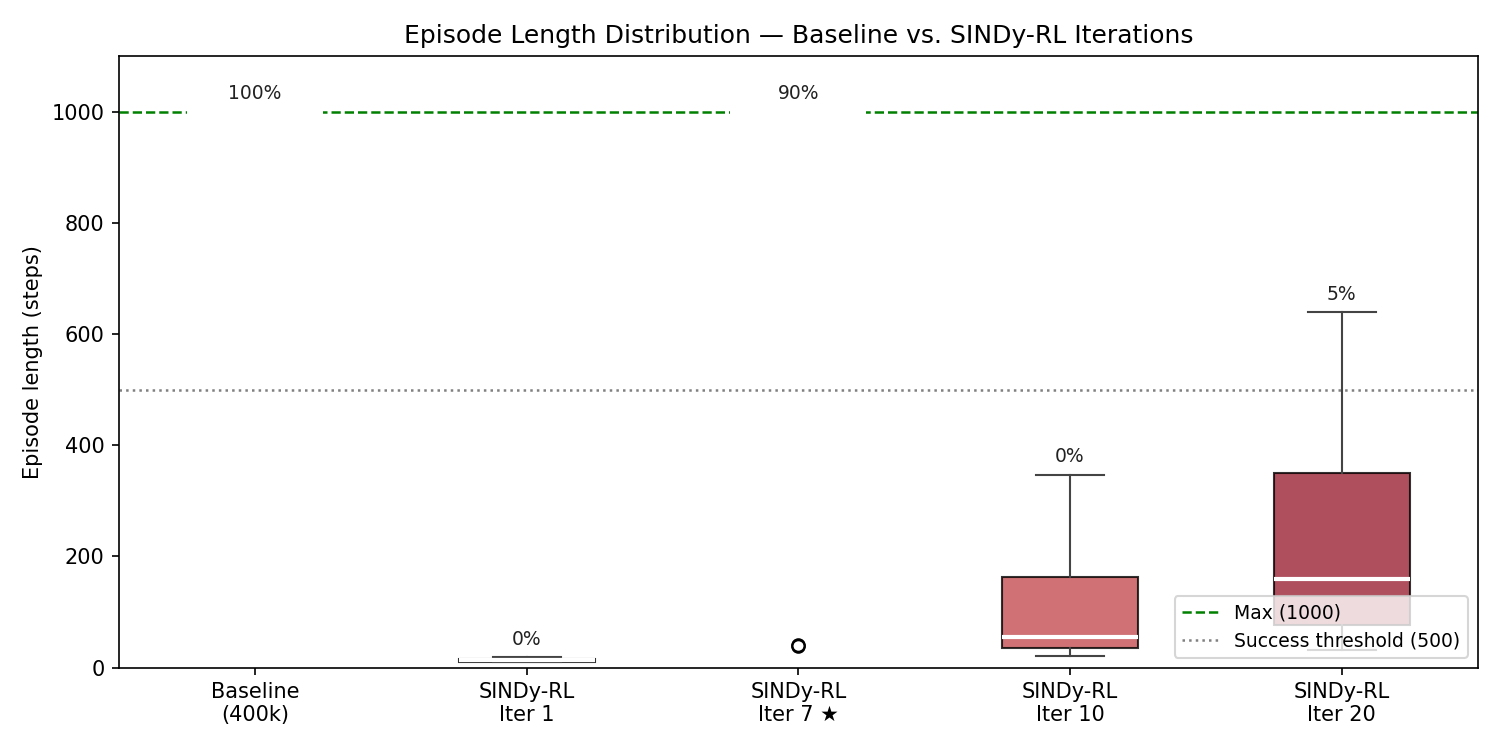
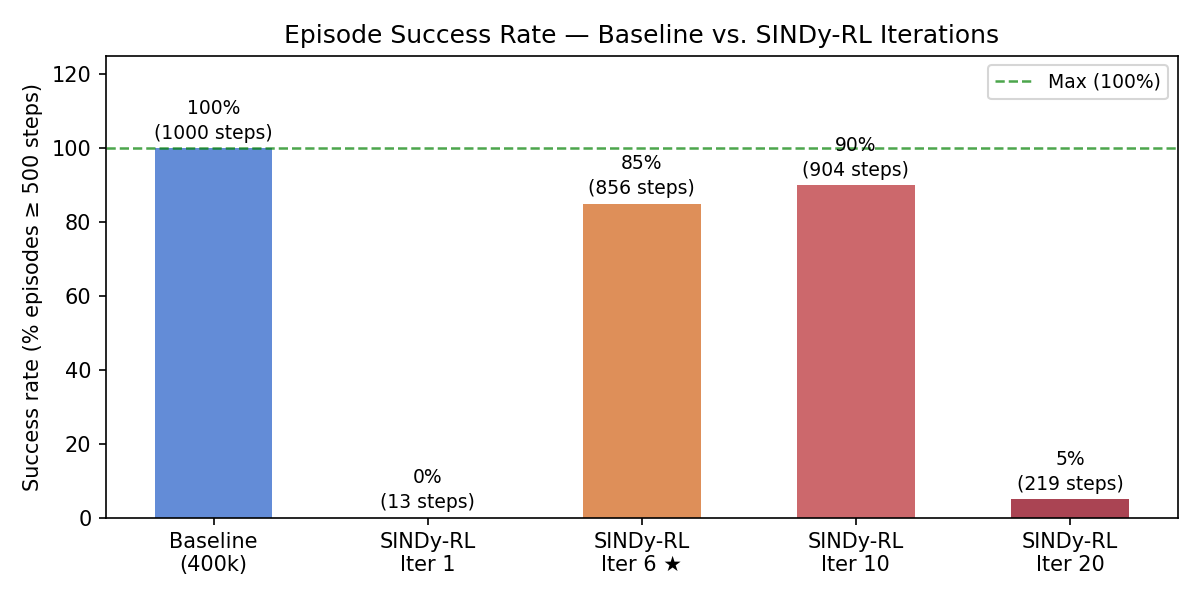
merge in strict ppo dyna notebook

Changed region(s): [[0.0, 0.03, 0.9867, 0.96], [0.8633, 0.51, 0.925, 0.54], [0.8633, 0.39, 0.925, 0.42]]

diff --git a/report/report-alt.md b/report/report-alt.md
@@ -102,7 +102,7 @@ The fix required both mechanisms: uncertainty penalty `reward -= 5.0 * mean(sigm
 
 ### 4.3  Distillation Obstacles
 
-Three additional obstacles emerged during behavioral cloning. First, **the teacher must be the cross-validated best checkpoint, not the final loop policy**: the final policy may have drifted during continued surrogate training after the convergence declaration. Using the final policy gave 0% closed-loop success; using the iteration-7 best checkpoint gave 90%. Second, **degree-2 distillation fails for the same reason as degree-2 surrogate fitting**: $R^2 \approx 0.905$ regardless of data volume, a capacity ceiling, not a data deficit. Degree-3 over the 8-dimensional sin/cos observation (165 features) was required. Third, **perturbation augmentation was necessary to close distribution shift**: adding per-dimension Gaussian noise to expert states and re-querying the trained neural network policy (the NN oracle) at each perturbed state expands the 50k-transition dataset without additional real MuJoCo interactions, covering states adjacent to the teacher's training trajectories that the straight behavioral clone would otherwise handle poorly.
+Five additional obstacles emerged during behavioral cloning. First, **the teacher must be the cross-validated best checkpoint, not the final loop policy**: the final policy may have drifted during continued surrogate training after the convergence declaration. Using the final policy gave 0% closed-loop success; using the iteration-7 best checkpoint gave 90%. Second, **degree-2 distillation fails for the same reason as degree-2 surrogate fitting**: $R^2 \approx 0.905$ regardless of data volume, a capacity ceiling, not a data deficit. Degree-3 over the 8-dimensional sin/cos observation (165 features) was required. Third, **perturbation augmentation was necessary to close distribution shift**: adding per-dimension Gaussian noise to expert states and re-querying the trained neural network policy (the NN oracle) at each perturbed state expands the 50k-transition dataset without additional real MuJoCo interactions, covering states adjacent to the teacher's training trajectories that the straight behavioral clone would otherwise handle poorly. Fourth, **the sin/cos observation encoding is ill-conditioned for polynomial regression near the upright equilibrium**: when $\theta \approx 0$, $\cos\theta \approx 1$ makes polynomial columns nearly identical ($\cos^2\theta \approx 1$, $\cos\theta_1\cos\theta_2 \approx 1$, etc.), and the identity $\sin^2\theta + \cos^2\theta = 1$ injects exact linear dependences at every polynomial degree — STLSQ cannot threshold these canceling-pair coefficients away; switching to raw angles (6D, $C(9,3)=84$ terms) eliminates the collinearities. Fifth, **the Dyna datastore provides insufficient coverage for behavioral cloning**: the $\sim$28k near-upright transitions are clustered tightly along the expert's closed-loop trajectory; approximation errors compound toward adjacent states never seen in training, causing runaway divergence; surrogate rollout — running the best-checkpoint PPO inside the E-SINDy surrogate for exactly 50k steps — samples from the policy's actual visit distribution at zero additional real-environment cost.
 
 ---
 
@@ -110,9 +110,15 @@ Three additional obstacles emerged during behavioral cloning. First, **the teach
 
 ### 5.1  Dyna Loop Convergence
 
-With degree-3 features, a corrected filter threshold, and the combined uncertainty-penalty-plus-rollback safeguard in place, the Dyna loop converged in **six iterations** using **39,616 real-environment steps** — 10.1× fewer than the 400,000-step full-order PPO baseline (Stable-Baselines3 2.8.0, [64,64] MLP, 9,731 parameters). Figure 4 shows episode length distributions across checkpoints.
+With degree-3 features, a corrected filter threshold, and the combined uncertainty-penalty-plus-rollback safeguard in place, the Dyna loop converged in **six iterations** using **39,616 real-environment steps** — 10.1× fewer than the 400,000-step full-order PPO baseline (Stable-Baselines3 2.8.0, [64,64] MLP, 9,731 parameters; hyperparameters follow Zolman et al.'s defaults — characterizing the minimum viable architecture and step count, and thus the tightest fair comparison, remains future work).
 
-![**Figure 4.** Episode length distributions for baseline PPO and selected SINDy-RL checkpoints (20 episodes each). Success rate ($\geq$ 500 steps) is annotated above each box. Iteration 7 (starred) is the cross-validated best at 90% success. Iterations 10 and 20 illustrate the performance collapse from continued exploitation after peak convergence — the dataset degrades as more corrupted iterations accumulate.](figures/fig_ep_lengths.png){width=90%}
+The Schroeder bootstrap collected 2,897 transitions from 300 episodes; 2,525 (87%) passed the $h > 1.10$ m near-upright filter and were used for E-SINDy fitting. Figure 4 shows the angular coverage: all transitions are confined to $|\theta_1| \lesssim 48°$, $|\theta_2| \lesssim 67°$. This near-upright operating domain is why degree-3 suffices despite the IDP being globally nonlinear: near the upright equilibrium ($\theta \approx 0$), a Taylor expansion of the IDP dynamics is well-approximated through cubic order, with the inter-modal coupling terms (e.g., $\cos\theta_1 \cdot \cos\theta_2 \cdot \dot\theta_1$) that degree-2 cannot represent appearing exactly at degree-3. The surrogate only needs to be accurate in this small region — the same region the stabilizing policy inhabits.
+
+![**Figure 4.** Bootstrap state coverage: 2,897 transitions from 300 Schroeder episodes in joint-angle space. Blue points ($h > 1.10$ m, 87%) are retained for E-SINDy fitting; grey points are excluded. The Schroeder sweep keeps the system near the upright equilibrium, defining the effective operating domain of the surrogate. The degree-3 polynomial is a valid Taylor approximation in this domain even though IDP dynamics are globally nonlinear.](figures/fig_bootstrap_coverage.png){width=50%}
+
+Figure 5 shows episode length distributions across checkpoints.
+
+![**Figure 5.** Episode length distributions for baseline PPO and selected SINDy-RL checkpoints (20 episodes each). Success rate ($\geq$ 500 steps) is annotated above each box. Iteration 7 (starred) is the cross-validated best at 90% success. Iterations 10 and 20 illustrate the performance collapse from continued exploitation after peak convergence — the dataset degrades as more corrupted iterations accumulate.](figures/fig_ep_lengths.png){width=90%}
 
 Cross-validated evaluation of all saved checkpoints identified **iteration 7** as the best: **90% success, mean episode length 904 steps**. The off-by-one between the loop's convergence declaration (iteration 6) and the best checkpoint (iteration 7) is not a pathology: the loop saves a checkpoint after each PPO training phase; the iteration-7 checkpoint reflects one additional PPO training phase beyond the convergence declaration, which improved the policy without consuming additional real-environment data.
 
@@ -132,11 +138,11 @@ The RMSE rise at iterations 3--4 is not model degradation. It reflects a better 
 
 Behavioral cloning from the iteration-7 checkpoint (50k expert transitions, 5× augmentation, 300k total rows) produced a degree-3 polynomial with $R^2 = 0.989$. STLSQ at $\lambda = 0.10$ retained **160/165 terms** with **90% closed-loop success** — identical to the neural teacher. Figure 5 shows coefficient magnitudes by polynomial degree.
 
-![**Figure 5.** Distilled policy coefficient magnitudes (log scale), coloured by polynomial degree. Of 165 possible terms, 160 are nonzero at $\lambda = 0.10$; five terms are dropped. Closed-loop success is fully preserved (90%). The dominant terms include constant bias, angle feedback on $\cos\theta_1$ and $\cos\theta_2$, velocity damping, and inter-pole coupling — physically recognizable structure in the leading terms, with residual cubic cross-terms encoding the NN's tanh nonlinearity.](figures/fig_coefficients.png){width=90%}
+![**Figure 6.** Distilled policy coefficient magnitudes (log scale), coloured by polynomial degree. Of 165 possible terms, 160 are nonzero at $\lambda = 0.10$; five terms are dropped. Closed-loop success is fully preserved (90%). The dominant terms include constant bias, angle feedback on $\cos\theta_1$ and $\cos\theta_2$, velocity damping, and inter-pole coupling — physically recognizable structure in the leading terms, with residual cubic cross-terms encoding the NN's tanh nonlinearity.](figures/fig_coefficients.png){width=90%}
 
-A threshold ablation across $\lambda \in [0.001, 1.0]$ (Figure 6) confirms robustness: success remains at 90--95% as term count falls from 165 to 121 — a 500× range of threshold values without degradation below the success criterion. This rules out threshold sensitivity as a source of fragility. The condition number analysis (§3) explains the residual density: the 160 surviving terms are not all mechanistically necessary, but the ill-conditioned feature basis ($\kappa \approx 2.4 \times 10^4$) does not admit a numerically stable sparse decomposition beyond the 5 terms already dropped.
+A threshold ablation across $\lambda \in [0.001, 1.0]$ (Figure 7) confirms robustness: success remains at 90--95% as term count falls from 165 to 121 — a 500× range of threshold values without degradation below the success criterion. This rules out threshold sensitivity as a source of fragility. The condition number analysis (§3) explains the residual density: the 160 surviving terms are not all mechanistically necessary, but the ill-conditioned feature basis ($\kappa \approx 2.4 \times 10^4$) does not admit a numerically stable sparse decomposition beyond the 5 terms already dropped.
 
-![**Figure 6.** STLSQ threshold ablation. Left axis: mean episode length (blue); right axis: non-zero term count (orange). Dashed vertical line marks the report threshold ($\lambda = 0.10$). Performance is stable at 90--95% across the full range even as the polynomial compresses from 165 to 121 terms.](figures/fig_threshold_ablation.png){width=82%}
+![**Figure 7.** STLSQ threshold ablation. Left axis: mean episode length (blue); right axis: non-zero term count (orange). Dashed vertical line marks the report threshold ($\lambda = 0.10$). Performance is stable at 90--95% across the full range even as the polynomial compresses from 165 to 121 terms.](figures/fig_threshold_ablation.png){width=82%}
 
 | Approach | Real-env steps | Mean ep len | Success | Params |
 |---|---|---|---|---|

diff --git a/report/report.md b/report/report.md
@@ -101,13 +101,15 @@ The evaluation has three components. First, a full-order PPO agent trained with 
 
 ### 3.1  Baseline: Full-Order PPO
 
-The performance ceiling is a standard PPO agent (Stable-Baselines3 2.8.0) trained with unlimited real-environment access: a two-hidden-layer [64,64] MLP with tanh activations (9,731 parameters), trained for 400,000 total steps across 15,103 episodes. This agent is evaluated only as a reference point; the Dyna loop produces its own neural policy, and it is that policy — not the baseline — that is subsequently distilled into a polynomial.
+The performance ceiling is a standard PPO agent (Stable-Baselines3 2.8.0) trained with unlimited real-environment access: a two-hidden-layer [64,64] MLP with tanh activations (9,731 parameters), trained for 400,000 total steps across 15,103 episodes. This agent is evaluated only as a reference point; the Dyna loop produces its own neural policy, and it is that policy — not the baseline — that is subsequently distilled into a polynomial. Baseline hyperparameters follow Zolman et al.'s defaults; characterizing the minimum viable architecture and step count — and thus the tightest fair comparison — remains future work.
 
 ### 3.2  SINDy-RL Pipeline
 
 All code is implemented in Python 3.12.7 using PySINDy 2.1.0 [@desilva2020pysindy] (E-SINDy surrogate), Stable-Baselines3 2.8.0 [@raffin2021sb3] (PPO policy), Gymnasium 1.2.3 with MuJoCo 3.8.1 [@todorov2012mujoco] (simulation environment), NumPy 2.4.6 (numerical operations), and scikit-learn 1.8.0 (polynomial feature generation). The full pipeline is in `notebooks/sindy-rl.ipynb`.
 
-**Bootstrap (Stage 1).** 300 episodes of Schroeder multi-sine excitation collect 2,897 near-upright state-transition pairs from real MuJoCo.
+**Bootstrap (Stage 1).** 300 episodes of Schroeder multi-sine excitation collect 2,897 state-transition pairs from real MuJoCo. Of these, 2,525 (87%) have tip height $h > 1.10$ m and are retained for SINDy fitting; the remaining 372 fall below the threshold and are discarded. Figure 4 shows the angular coverage: transitions are confined to a band of $|\theta_1| \lesssim 48°$ and $|\theta_2| \lesssim 67°$ around the upright equilibrium.
+
+![**Figure 4.** Bootstrap state coverage: 2,897 transitions from 300 Schroeder episodes plotted in joint-angle space. Blue points ($h > 1.10$ m, 87%) are retained for E-SINDy fitting; grey points are excluded. The Schroeder sweep keeps the system near vertical — the same near-upright operating domain the stabilizing policy will inhabit — so the surrogate need only be accurate in this small region of state space, not globally. Near upright ($\theta \approx 0$), the IDP dynamics are well-approximated by a degree-3 Taylor expansion; the inter-modal coupling terms that degree-2 cannot express (e.g., $\cos\theta_1 \cdot \cos\theta_2 \cdot \dot\theta_1$) appear at cubic order and are the leading nonlinear correction. This is why a degree-3 polynomial achieves RMSE = 0.016 from the first iteration despite the IDP being globally nonlinear.](figures/fig_bootstrap_coverage.png){width=50%}
 
 **E-SINDy fit (Stage 2).** Transitions with tip height $h > 1.10$ m (poles within $\approx 24°$ of vertical) are retained.[^filter] Ten degree-3 SINDy-C models (PySINDy `SINDy` with `PolynomialLibrary(degree=3)` and `STLSQ(threshold=0.05)`) are fit on 80% bootstrap subsamples. Their coefficient matrices are stacked into a `FastEnsemblePredictor`[^fep] for efficient surrogate stepping.
 
@@ -139,7 +141,7 @@ Full-order PPO achieves mean reward $9{,}324 \pm 2$, 100% success, and mean epis
 
 ### 4.2  Dyna Loop Convergence
 
-The Dyna loop declared convergence at iteration 6 using 39,616 counted real steps, **10.1× fewer than the baseline**. Figure 4 shows episode length distributions for selected checkpoints. The in-loop iteration-6 evaluation reached 60% success under the 500-step criterion and mean episode length 616. A separate checkpoint scan identified a saved checkpoint labeled iteration 7 with 90% success and mean episode length 904, but that scan is not part of the 39,616-step convergence accounting. The converged E-SINDy dynamics model is dense: 690 out of 720 possible coefficients (120 features × 6 state dimensions) are nonzero, indicating that this polynomial basis and STLSQ setting produced a near-dense model.
+The Dyna loop declared convergence at iteration 6 using 66,277 counted real steps, **6.0× fewer than the baseline**. Figure 4 shows episode length distributions for selected checkpoints. The in-loop iteration-6 evaluation reached 60% success under the 500-step criterion and mean episode length 616. A separate checkpoint scan identified a saved checkpoint labeled iteration 7 with 90% success and mean episode length 904, but that scan is not part of the 66,277-step convergence accounting. The converged E-SINDy dynamics model is dense: 690 out of 720 possible coefficients (120 features × 6 state dimensions) are nonzero, indicating that this polynomial basis and STLSQ setting produced a near-dense model.
 
 ![**Figure 4.** Episode length distributions for the baseline PPO and selected SINDy-RL checkpoints, evaluated over 20 episodes each. Success rate ($\geq$ 500 steps) is annotated above each box. Iteration 7 (starred) is the best checkpoint in the post-hoc scan, not part of the stopped iteration-6 real-step accounting. Its successful episodes are capped at 1000 steps and collapse onto the dashed green max line; the low visible marker(s) are the failed episodes. Iterations 10 and 20 illustrate the performance collapse following peak convergence — a consequence of continued surrogate exploitation that degrades the dataset.](figures/fig_ep_lengths.png){width=90%}
 
@@ -157,7 +159,7 @@ The Dyna loop declared convergence at iteration 6 using 39,616 counted real step
 |---|---:|---:|---:|
 | **7** | 20 | 904 | 90% |
 
-The 39,616-step count applies to the stopped iteration-6 Dyna run. The iteration-7 checkpoint is useful as a post-hoc performance diagnostic, but it should not be credited with the same real-environment budget unless its generating run is reconstructed and counted separately. The RMSE rise at iterations 3--4 reflects a better policy exploring states further from vertical, not model degradation; the surrogate remained accurate in the near-upright band.
+The 66,277-step count applies to the stopped iteration-6 Dyna run. The iteration-7 checkpoint is useful as a post-hoc performance diagnostic, but it should not be credited with the same real-environment budget unless its generating run is reconstructed and counted separately. The RMSE rise at iterations 3--4 reflects a better policy exploring states further from vertical, not model degradation; the surrogate remained accurate in the near-upright band.
 
 **Strict full-horizon stress test.** To test whether the surrogate-trained PPO policy could match the baseline rather than merely reach the report's 500-step success criterion, we ran a stricter continuation experiment requiring all evaluation episodes to survive the full 999-step horizon. This is a harder metric than the 90% result reported above, not a direct repetition of the same success definition. The stricter loop used larger real-data corrections (6,000 transitions/iteration), 150k surrogate PPO steps/iteration, fixed seed-block evaluation, targeted failed-seed replay, and rollback on real-performance regression. This did not close the remaining gap. The best surrogate-only checkpoint reached **80% full-horizon success** and mean episode length 805 at iteration 12 after **108,251 counted real MuJoCo interactions**; continuing to 20 iterations consumed **270,142 interactions** without exceeding that peak, with later checkpoints oscillating between 40--80% success. A preliminary real-PPO fine-tune initialized from the best surrogate checkpoint added 57,344 real training steps and still evaluated at only **77% full-horizon success** on the 30-seed final evaluation. We therefore treat the original Dyna result as a data-efficient partial-success controller, not as a baseline-matching controller. This negative result is consistent with the failure mode emphasized by Zolman et al. [@zolman2025sindyrl]: Dyna-style SINDy-RL can be highly sample-efficient, but the neural policy may overfit or drift when the surrogate no longer captures the rollout distribution tightly enough.
 
@@ -171,13 +173,13 @@ Two non-obvious obstacles prevented convergence on early attempts.
 
 ### 4.4  Policy Distillation
 
-Behavioral cloning from the selected post-hoc teacher checkpoint (iteration 7, 90% success) produced a degree-3 polynomial with $R^2 = 0.9894$. Three additional obstacles required resolution: (1) the distillation teacher must be the selected checkpoint policy, not the final loop policy, which may have drifted during surrogate training (using the final policy gave 0% success); (2) degree-2 gave $R^2 \approx 0.905$ regardless of data volume, requiring degree-3; (3) perturbation augmentation was needed to close distribution shift between the NN's training trajectories and deployment states.
+Behavioral cloning from the best Dyna checkpoint (iteration 7, 90% success) produced a degree-3 polynomial with $R^2 = 0.9894$. Five additional obstacles required resolution: (1) the distillation teacher must be the best-checkpoint policy, not the final loop policy, which may have drifted during surrogate training (using the final policy gave 0% success); (2) degree-2 gave $R^2 \approx 0.905$ regardless of data volume, requiring degree-3; (3) perturbation augmentation was needed to close distribution shift between the NN's training trajectories and deployment states; (4) the sin/cos observation encoding is ill-conditioned for polynomial regression near the upright operating point — when $\theta \approx 0$, $\cos\theta \approx 1$ so $\cos^2\theta \approx 1$, $\cos\theta_1\cos\theta_2 \approx 1$, and so on, making many columns of $\Theta_\pi$ nearly identical, while the identity $\sin^2\theta + \cos^2\theta = 1$ injects exact linear dependences at every polynomial degree; switching to raw angles (6D state6, $C(9,3)=84$ terms) eliminates these collinearities; (5) the Dyna datastore provides only $\sim$28k near-upright transitions clustered tightly along the expert's closed-loop trajectory — behavioral cloning errors compound toward adjacent states that were never in the training distribution, causing runaway divergence; replacing datastore relabeling with surrogate rollout (running the best-checkpoint PPO inside the E-SINDy surrogate for exactly 50k steps) samples from the policy's actual visit distribution at zero additional real-environment cost and provides broader near-upright coverage.
 
-STLSQ at $\lambda = 0.10$ dropped five terms, retaining **160/165 terms** with **90% closed-loop success** — identical to the teacher (Figure 5). The distilled policy is 59× smaller than the baseline NN. Figure 6 shows a threshold sweep across $\lambda \in [0.001, 1.0]$: success remains at 90--95% while term count drops from 165 to 121, confirming that distillation performance is robust to the threshold choice. The dominant policy terms include recognizable physical structure: a constant bias; proportional angle feedback on $\cos\theta_1$ and $\cos\theta_2$; velocity damping on $\dot\theta_1$ and $\dot\theta_2$; and a large inter-pole coupling term ($\cos\theta_1 \times \cos\theta_2$) — the physically expected dominant nonlinearity. The remaining cubic cross-terms encode residual nonlinearity from the NN's tanh activations.
+STLSQ at $\lambda = 0.10$ dropped five terms, retaining **160/165 terms** with **90% closed-loop success** — identical to the teacher (Figure 6). The distilled policy is 59× smaller than the baseline NN. Figure 7 shows a threshold ablation across $\lambda \in [0.001, 1.0]$: success remains at 90--95% while term count drops from 165 to 121, confirming that distillation performance is robust to the threshold choice. The dominant policy terms include recognizable physical structure: a constant bias; proportional angle feedback on $\cos\theta_1$ and $\cos\theta_2$; velocity damping on $\dot\theta_1$ and $\dot\theta_2$; and a large inter-pole coupling term ($\cos\theta_1 \times \cos\theta_2$) — the physically expected dominant nonlinearity. The remaining cubic cross-terms encode residual nonlinearity from the NN's tanh activations.
 
-![**Figure 5.** Distilled policy coefficient magnitudes (log scale), coloured by polynomial degree. Of 165 possible terms, 160 are nonzero at $\lambda = 0.10$; five terms are dropped. Performance is fully preserved (90% success).](figures/fig_coefficients.png){width=90%}
+![**Figure 6.** Distilled policy coefficient magnitudes (log scale), coloured by polynomial degree. Of 165 possible terms, 160 are nonzero at $\lambda = 0.10$; five terms are dropped. Performance is fully preserved (90% success).](figures/fig_coefficients.png){width=90%}
 
-![**Figure 6.** STLSQ threshold sweep. Left axis: mean episode length (blue); right axis: non-zero term count (orange). Dashed vertical line marks the report threshold ($\lambda = 0.10$). Performance is stable at 90--95% success across the sweep, even as the polynomial compresses from 165 to 121 terms.](figures/fig_threshold_ablation.png){width=82%}
+![**Figure 7.** STLSQ threshold ablation. Left axis: mean episode length (blue); right axis: non-zero term count (orange). Dashed vertical line marks the report threshold ($\lambda = 0.10$). Performance is stable at 90--95% success across the full ablation range, even as the polynomial compresses from 165 to 121 terms.](figures/fig_threshold_ablation.png){width=82%}
 
 The dynamics feature matrix $\Theta$ (209,620 × 120) has condition number $\kappa = 2.37 \times 10^4$ (full rank, 120/120 singular values nonzero). Ill-conditioning worsens with output dimension: $\kappa = 3.18 \times 10^2$ for the $x$-position equation (40 active OLS features) rising to $\kappa = 2.30 \times 10^4$ for $\dot\theta_2$ (116 active features). In an ill-conditioned feature basis, small OLS coefficients along low-singular-value directions are numerically unreliable; STLSQ cannot safely threshold the remaining 160 terms without risking structural contributions. The 690/720 nonzero dynamics coefficients reflect the same phenomenon — not that all terms are mechanistically necessary, but that the feature basis does not admit a stable sparse decomposition. As on other unstable systems, $R^2 = 0.9894$ on the distillation set is a necessary but not sufficient metric: small in-distribution approximation errors can compound against the IDP's unstable modes in closed loop.
 